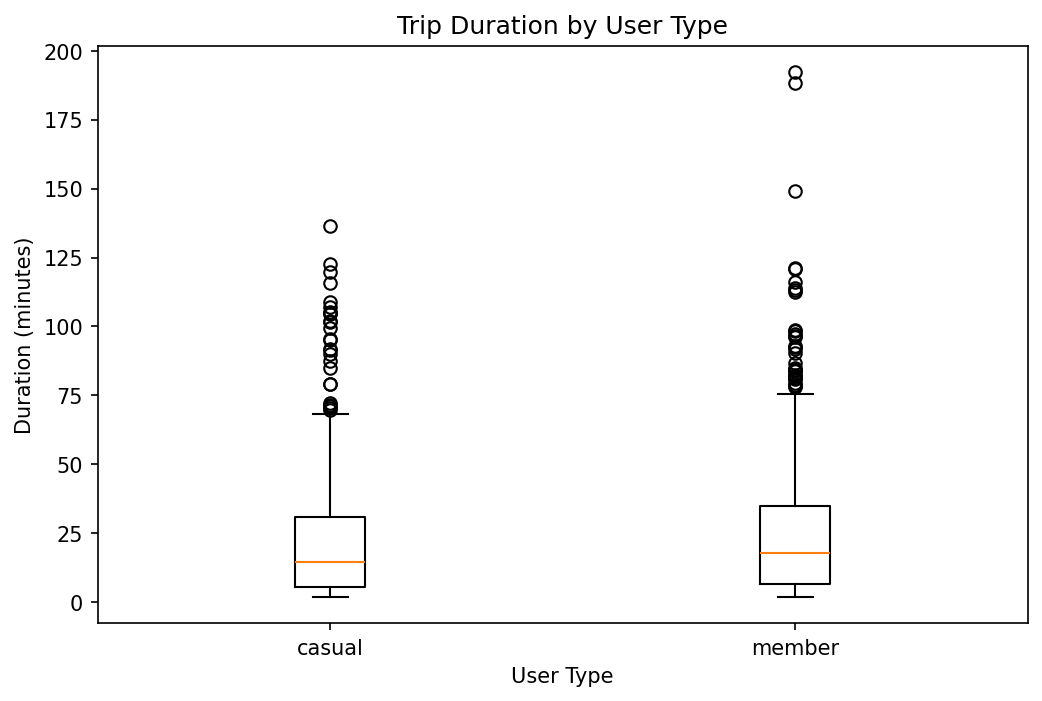
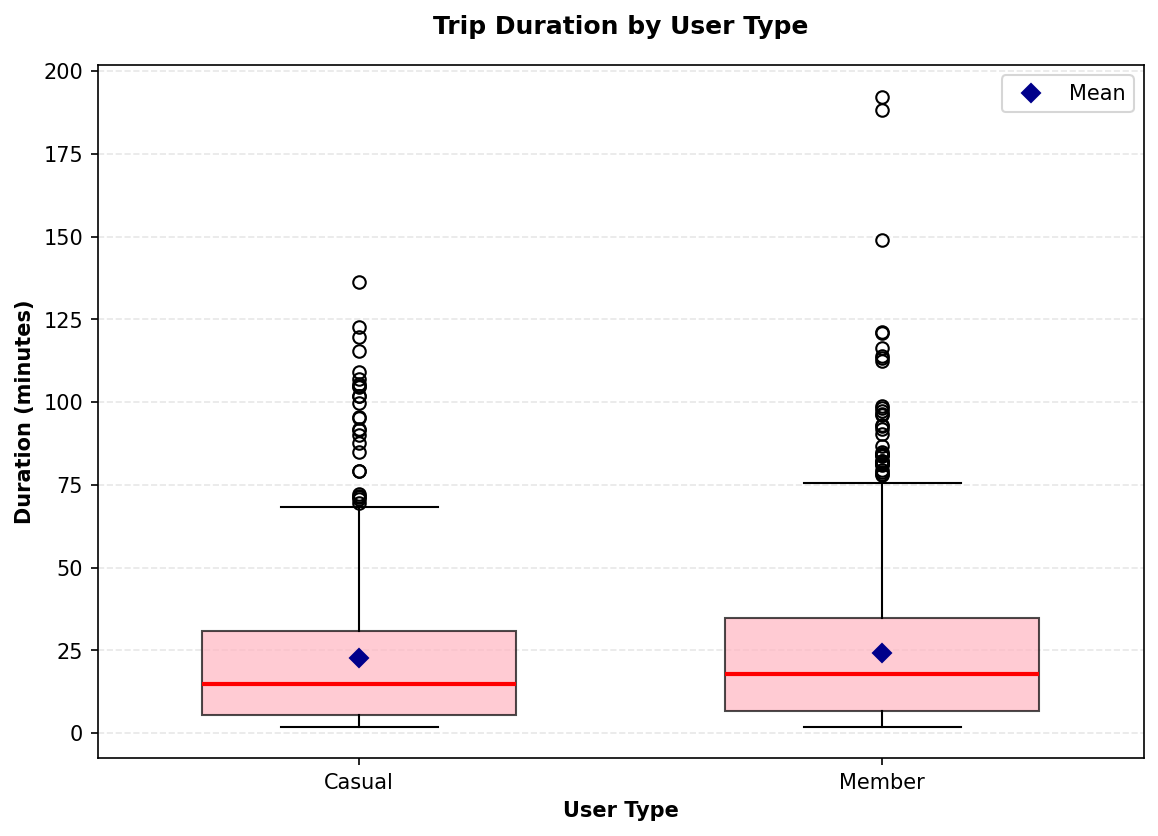
additional visualisations

diff --git a/visualization.py b/visualization.py
@@ -1,11 +1,16 @@
 """
-Matplotlib visualizations for the CityBike platform.
+Matplotlib and Seaborn visualizations for the CityBike platform.
 
 Creates:
     1. Bar chart — trips per station
     2. Line chart — monthly trip trend
     3. Histogram — trip duration distribution
     4. Box plot — duration by user type
+    5. Histogram — trip distance distribution
+    6. Line chart — average duration by hour
+    7. Pie chart — user type proportion
+    8. Bar chart — maintenance cost by bike type
+    9. Heatmap — top routes (start vs end station)
 
 Exports PNG files to output/figures/.
 """
@@ -13,13 +18,11 @@ Exports PNG files to output/figures/.
 import matplotlib.pyplot as plt
 import pandas as pd
 from pathlib import Path
-
+import seaborn as sns
 
 FIGURES_DIR = Path(__file__).resolve().parent / "output" / "figures"
 
-
 def _save_figure(fig: plt.Figure, filename: str) -> None:
-    """Save a Matplotlib figure to the figures directory."""
     FIGURES_DIR.mkdir(parents=True, exist_ok=True)
     filepath = FIGURES_DIR / filename
     fig.savefig(filepath, dpi=150, bbox_inches="tight")
@@ -30,52 +33,51 @@ def _save_figure(fig: plt.Figure, filename: str) -> None:
 # ---------------------------------------------------------------------------
 # 1. Bar chart — trips per station
 # ---------------------------------------------------------------------------
-
 def plot_trips_per_station(trips: pd.DataFrame, stations: pd.DataFrame) -> None:
-    counts = (
-        trips["start_station_id"]
-        .value_counts()
-        .head(10)
-        .rename_axis("station_id")
-        .reset_index(name="trip_count")
-    )
+    if trips.empty or stations.empty or "start_station_id" not in trips.columns:
+        return
+    
+    counts = trips["start_station_id"].value_counts().head(10).rename_axis("station_id").reset_index(name="trip_count")
+    merged = counts.merge(stations[["station_id", "station_name"]], on="station_id", how="left")
+    merged["station_name"] = merged["station_name"].fillna("Unknown")
 
-    merged = counts.merge(
-        stations[["station_id", "station_name"]],
-        on="station_id",
-        how="left",
-    )
-
-    fig, ax = plt.subplots(figsize=(10, 5))
-    ax.barh(merged["station_name"], merged["trip_count"], color="steelblue")
-    ax.set_xlabel("Number of Trips")
-    ax.set_ylabel("Station")
-    ax.set_title("Top 10 Start Stations by Trip Count")
+    fig, ax = plt.subplots(figsize=(10, 6))
+    bars = ax.barh(merged["station_name"], merged["trip_count"], color="steelblue", edgecolor="navy", linewidth=1.2)
+    ax.set_xlabel("Number of Trips", fontweight="bold")
+    ax.set_ylabel("Station", fontweight="bold")
+    ax.set_title("Top 10 Start Stations by Trip Count", fontweight="bold", pad=15)
     ax.invert_yaxis()
+    ax.grid(axis="x", alpha=0.3, linestyle="--")
+
+    for i, (bar, value) in enumerate(zip(bars, merged["trip_count"])):
+        ax.text(value + 1, i, str(int(value)), va="center", fontsize=9)
 
     _save_figure(fig, "trips_per_station.png")
 
 
 # ---------------------------------------------------------------------------
-# 2. Line chart — monthly trend
+# 2. Line chart — monthly trip trend
 # ---------------------------------------------------------------------------
-
 def plot_monthly_trend(trips: pd.DataFrame) -> None:
-    monthly = (
-        trips
-        .set_index("start_time")
-        .resample("ME")
-        .size()
-    )
+    if trips.empty or "start_time" not in trips.columns:
+        return
+    
+    if not pd.api.types.is_datetime64_any_dtype(trips["start_time"]):
+        trips["start_time"] = pd.to_datetime(trips["start_time"], errors="coerce")
+    
+    monthly = trips.set_index("start_time").resample("ME").size()
+    if monthly.empty:
+        return
 
-    fig, ax = plt.subplots(figsize=(10, 5))
-    ax.plot(monthly.index, monthly.values, marker="o", label="Monthly Trips")
-
-    ax.set_title("Monthly Trip Trend")
-    ax.set_xlabel("Month")
-    ax.set_ylabel("Number of Trips")
-    ax.legend()
-    ax.grid(True)
+    fig, ax = plt.subplots(figsize=(11, 6))
+    ax.plot(monthly.index, monthly.values, marker="o", linewidth=2.5, markersize=8, color="#2E86AB", label="Monthly Trips")
+    ax.fill_between(monthly.index, monthly.values, alpha=0.2, color="#2E86AB")
+    ax.set_title("Monthly Trip Trend", fontweight="bold", pad=15)
+    ax.set_xlabel("Month", fontweight="bold")
+    ax.set_ylabel("Number of Trips", fontweight="bold")
+    ax.legend(fontsize=10)
+    ax.grid(True, alpha=0.3, linestyle="--")
+    fig.autofmt_xdate(rotation=45)
 
     _save_figure(fig, "monthly_trend.png")
 
@@ -83,16 +85,33 @@ def plot_monthly_trend(trips: pd.DataFrame) -> None:
 # ---------------------------------------------------------------------------
 # 3. Histogram — trip duration distribution
 # ---------------------------------------------------------------------------
-
 def plot_duration_histogram(trips: pd.DataFrame) -> None:
-    fig, ax = plt.subplots(figsize=(8, 5))
+    if trips.empty or "duration_minutes" not in trips.columns:
+        return
 
-    ax.hist(trips["duration_minutes"], bins=30, alpha=0.7, edgecolor="black", label="Duration")
+    durations = trips["duration_minutes"].dropna()
+    if durations.empty:
+        return
 
-    ax.set_title("Trip Duration Distribution")
-    ax.set_xlabel("Duration (minutes)")
-    ax.set_ylabel("Frequency")
-    ax.legend()
+    fig, ax = plt.subplots(figsize=(9, 6))
+    n, bins, patches = ax.hist(durations, bins=30, alpha=0.75, edgecolor="black", color="#A23B72")
+    
+    # Gradient colors
+    cm = plt.cm.RdYlGn
+    bin_centers = 0.5 * (bins[:-1] + bins[1:])
+    col = (bin_centers - min(bin_centers)) / (max(bin_centers) - min(bin_centers))
+    for c, p in zip(col, patches):
+        plt.setp(p, 'facecolor', cm(c))
+
+    ax.set_title("Trip Duration Distribution", fontweight="bold", pad=15)
+    ax.set_xlabel("Duration (minutes)", fontweight="bold")
+    ax.set_ylabel("Frequency", fontweight="bold")
+    ax.grid(axis="y", alpha=0.3, linestyle="--")
+
+    stats_text = f"Mean: {durations.mean():.1f} min\nMedian: {durations.median():.1f} min\nStd: {durations.std():.1f} min"
+    ax.text(0.98, 0.97, stats_text, transform=ax.transAxes, fontsize=9,
+            verticalalignment='top', horizontalalignment='right',
+            bbox=dict(boxstyle='round', facecolor='wheat', alpha=0.8))
 
     _save_figure(fig, "duration_histogram.png")
 
@@ -100,18 +119,176 @@ def plot_duration_histogram(trips: pd.DataFrame) -> None:
 # ---------------------------------------------------------------------------
 # 4. Box plot — duration by user type
 # ---------------------------------------------------------------------------
-
 def plot_duration_by_user_type(trips: pd.DataFrame) -> None:
-    grouped = trips.groupby("user_type")["duration_minutes"]
+    if trips.empty or "user_type" not in trips.columns or "duration_minutes" not in trips.columns:
+        return
 
-    data = [group for _, group in grouped]
-    labels = [name for name, _ in grouped]
+    trips_clean = trips[trips["duration_minutes"].notna()].copy()
+    grouped = trips_clean.groupby("user_type")["duration_minutes"]
+    data = [group.values for _, group in grouped]
+    labels = [name.capitalize() for name, _ in grouped]
 
-    fig, ax = plt.subplots(figsize=(8, 5))
-    ax.boxplot(data, labels=labels)
+    fig, ax = plt.subplots(figsize=(9, 6))
+    bp = ax.boxplot(data, labels=labels, patch_artist=True, widths=0.6,
+                    boxprops=dict(facecolor='#FFB6C1', alpha=0.7),
+                    medianprops=dict(color='red', linewidth=2))
 
-    ax.set_title("Trip Duration by User Type")
-    ax.set_xlabel("User Type")
-    ax.set_ylabel("Duration (minutes)")
+    ax.set_title("Trip Duration by User Type", fontweight="bold", pad=15)
+    ax.set_xlabel("User Type", fontweight="bold")
+    ax.set_ylabel("Duration (minutes)", fontweight="bold")
+    ax.grid(axis="y", alpha=0.3, linestyle="--")
 
+    for i, group in enumerate(data, 1):
+        ax.plot(i, group.mean(), 'D', color='darkblue', markersize=6, label='Mean' if i==1 else '')
+
+    ax.legend(fontsize=10)
     _save_figure(fig, "duration_by_user_type.png")
+
+
+# ---------------------------------------------------------------------------
+# 5. Histogram — trip distance distribution
+# ---------------------------------------------------------------------------
+def plot_distance_histogram(trips: pd.DataFrame) -> None:
+    if trips.empty or "distance_km" not in trips.columns:
+        return
+
+    distances = trips["distance_km"].dropna()
+    if distances.empty:
+        return
+
+    fig, ax = plt.subplots(figsize=(9, 6))
+    ax.hist(distances, bins=30, color="#1f77b4", edgecolor="black", alpha=0.7)
+    ax.set_title("Trip Distance Distribution", fontweight="bold", pad=15)
+    ax.set_xlabel("Distance (km)", fontweight="bold")
+    ax.set_ylabel("Frequency", fontweight="bold")
+    ax.grid(axis="y", alpha=0.3, linestyle="--")
+    _save_figure(fig, "distance_histogram.png")
+
+
+# ---------------------------------------------------------------------------
+# 6. Line chart — average duration by hour
+# ---------------------------------------------------------------------------
+def plot_avg_duration_by_hour(trips: pd.DataFrame) -> None:
+    if trips.empty or "start_time" not in trips.columns or "duration_minutes" not in trips.columns:
+        return
+
+    trips["hour"] = trips["start_time"].dt.hour
+    avg_duration = trips.groupby("hour")["duration_minutes"].mean()
+
+    fig, ax = plt.subplots(figsize=(10, 5))
+    ax.plot(avg_duration.index, avg_duration.values, marker="o", color="#2ca02c")
+    ax.set_title("Average Trip Duration by Hour", fontweight="bold", pad=15)
+    ax.set_xlabel("Hour of Day", fontweight="bold")
+    ax.set_ylabel("Average Duration (min)", fontweight="bold")
+    ax.grid(True, alpha=0.3, linestyle="--")
+    _save_figure(fig, "avg_duration_by_hour.png")
+
+
+# ---------------------------------------------------------------------------
+# 7. Pie chart — user type proportion
+# ---------------------------------------------------------------------------
+def plot_user_type_share(trips: pd.DataFrame) -> None:
+    if trips.empty or "user_type" not in trips.columns:
+        return
+
+    counts = trips["user_type"].value_counts()
+    fig, ax = plt.subplots(figsize=(6, 6))
+    ax.pie(counts, labels=counts.index.str.capitalize(), autopct="%1.1f%%",
+           colors=["#1f77b4","#ff7f0e"], startangle=90)
+    ax.set_title("User Type Share", fontweight="bold")
+    _save_figure(fig, "user_type_share.png")
+
+
+# ---------------------------------------------------------------------------
+# 8. Bar chart — maintenance cost by bike type
+# ---------------------------------------------------------------------------
+def plot_maintenance_cost_by_bike_type(maintenance: pd.DataFrame) -> None:
+    if maintenance.empty or "bike_type" not in maintenance.columns:
+        return
+
+    maintenance["bike_type"] = maintenance["bike_type"].str.lower().str.strip()
+    costs = maintenance.groupby("bike_type")["cost"].sum().sort_values(ascending=False)
+
+    fig, ax = plt.subplots(figsize=(7, 5))
+    bars = ax.bar(costs.index, costs.values, color="#FF7F0E")
+    ax.set_title("Maintenance Cost by Bike Type", fontweight="bold")
+    ax.set_ylabel("Cost ($)", fontweight="bold")
+    ax.set_xlabel("Bike Type", fontweight="bold")
+    ax.grid(axis="y", alpha=0.3, linestyle="--")
+
+    for bar, val in zip(bars, costs.values):
+        ax.text(bar.get_x() + bar.get_width()/2, val + 5, f"{val:.2f}", ha='center', fontsize=9)
+
+    _save_figure(fig, "maintenance_cost_by_bike_type.png")
+
+
+# ---------------------------------------------------------------------------
+# 9. Heatmap — all routes (start vs end station)
+# ---------------------------------------------------------------------------
+def plot_top_routes_heatmap(trips: pd.DataFrame, n: int = None) -> None:
+    """Heatmap of all or top-n routes by start and end station."""
+    if trips.empty or "start_station_id" not in trips.columns or "end_station_id" not in trips.columns:
+        return
+    
+    routes = (
+        trips.groupby(["start_station_id", "end_station_id"])
+        .size()
+        .reset_index(name="count")
+        .sort_values("count", ascending=False)
+    )
+    
+    # If n is None, show all routes; otherwise limit to top n
+    if n is not None:
+        routes = routes.head(n)
+    
+    if routes.empty:
+        return
+
+    # Get all unique stations from routes
+    all_stations = sorted(set(routes["start_station_id"].unique()) | set(routes["end_station_id"].unique()))
+    
+    # Create full pivot with all stations to ensure complete matrix
+    pivot = routes.pivot_table(index="start_station_id", columns="end_station_id", values="count", fill_value=0)
+    
+    # Reindex to include all stations
+    pivot = pivot.reindex(index=all_stations, columns=all_stations, fill_value=0)
+
+    # Adjust figure size based on number of stations
+    num_stations = len(all_stations)
+    fig_size = max(10, num_stations * 0.8)
+    font_size = max(6, 12 - num_stations // 3)
+    
+    fig, ax = plt.subplots(figsize=(fig_size, fig_size))
+    im = ax.imshow(pivot, cmap="YlOrRd", aspect="auto")
+    
+    # Add colorbar
+    cbar = fig.colorbar(im, ax=ax, label="Trip Count")
+    
+    # Set ticks and labels
+    ax.set_xticks(range(len(pivot.columns)))
+    ax.set_yticks(range(len(pivot.index)))
+    ax.set_xticklabels(pivot.columns, rotation=45, ha="right", fontsize=font_size)
+    ax.set_yticklabels(pivot.index, fontsize=font_size)
+    
+    # Add text annotations for non-zero values
+    for i in range(len(pivot.index)):
+        for j in range(len(pivot.columns)):
+            val = pivot.iloc[i, j]
+            if val > 0:
+                text_color = "white" if val > pivot.values.max() * 0.5 else "black"
+                ax.text(j, i, f"{int(val)}", ha="center", va="center", color=text_color, fontsize=font_size-1, fontweight="bold")
+
+    ax.set_xlabel("End Station", fontweight="bold", fontsize=11)
+    ax.set_ylabel("Start Station", fontweight="bold", fontsize=11)
+    
+    if n is not None:
+        title = f"Top {n} Routes Heatmap (Trip Count)"
+        filename = f"top_{n}_routes_heatmap.png"
+    else:
+        title = f"All Routes Heatmap (Trip Count) - {len(routes)} unique routes"
+        filename = "all_routes_heatmap.png"
+    
+    ax.set_title(title, fontweight="bold", fontsize=12, pad=15)
+    
+    _save_figure(fig, filename)
+

diff --git a/main.py b/main.py
@@ -22,6 +22,11 @@ from visualization import (
     plot_monthly_trend,
     plot_duration_histogram,
     plot_duration_by_user_type,
+    plot_distance_histogram,
+    plot_avg_duration_by_hour,
+    plot_user_type_share,
+    plot_maintenance_cost_by_bike_type,
+    plot_top_routes_heatmap,
 )
 from pricing import CasualPricing, MemberPricing
 from numerical import calculate_fares
@@ -98,10 +103,18 @@ def main() -> None:
     # Step 5 — Visualizations
     print("\n>>> Generating visualizations …")
 
+    # Existing plots
     plot_trips_per_station(system.trips, system.stations)
     plot_monthly_trend(system.trips)
     plot_duration_histogram(system.trips)
     plot_duration_by_user_type(system.trips)
+
+    # New plots
+    plot_distance_histogram(system.trips)               # Histogram of trip distances
+    plot_avg_duration_by_hour(system.trips)            # Line chart: average duration by hour
+    plot_user_type_share(system.trips)                 # Pie chart: user type proportions
+    plot_maintenance_cost_by_bike_type(system.maintenance)  # Bar chart: maintenance cost by bike type
+    plot_top_routes_heatmap(system.trips)             # Heatmap: top routes (start vs end stations)
 
     # Step 6 — Report
     print("\n>>> Generating summary report …")
